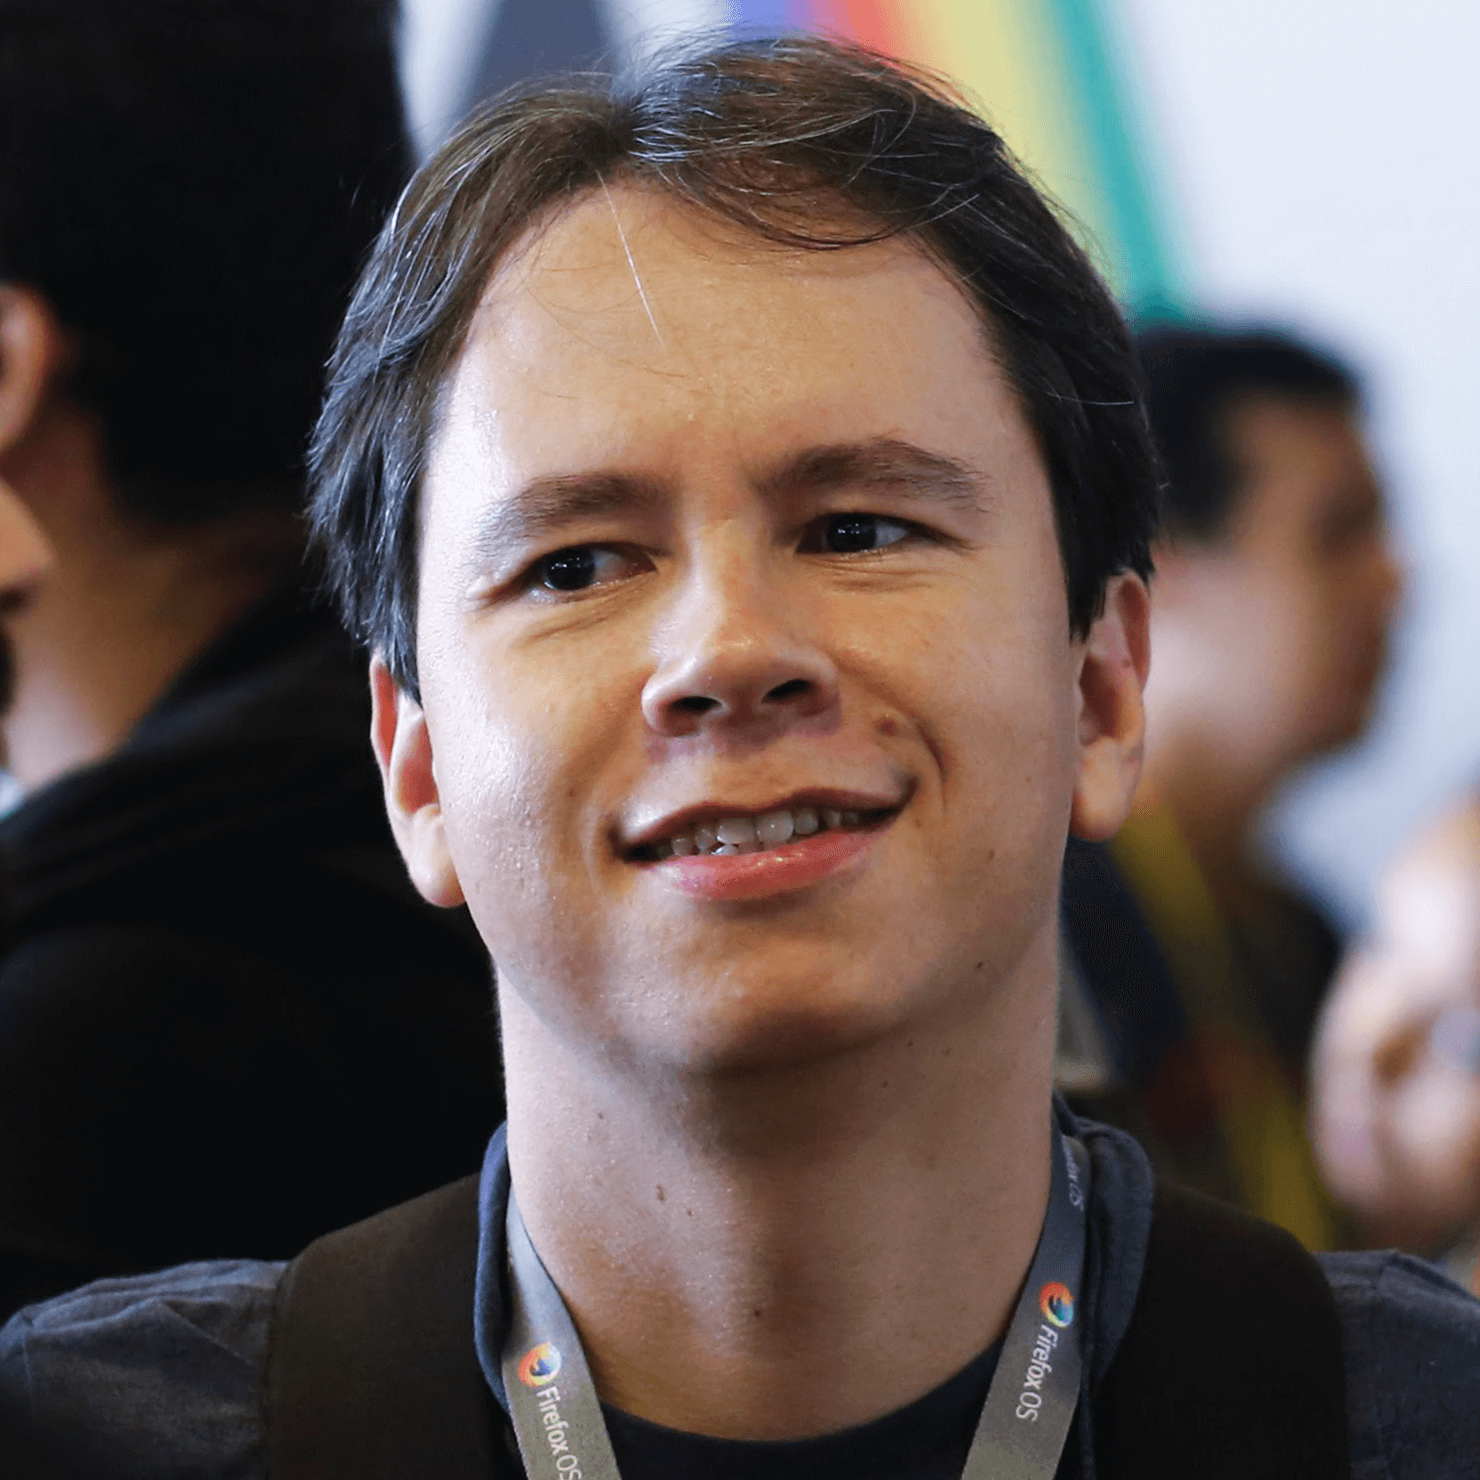
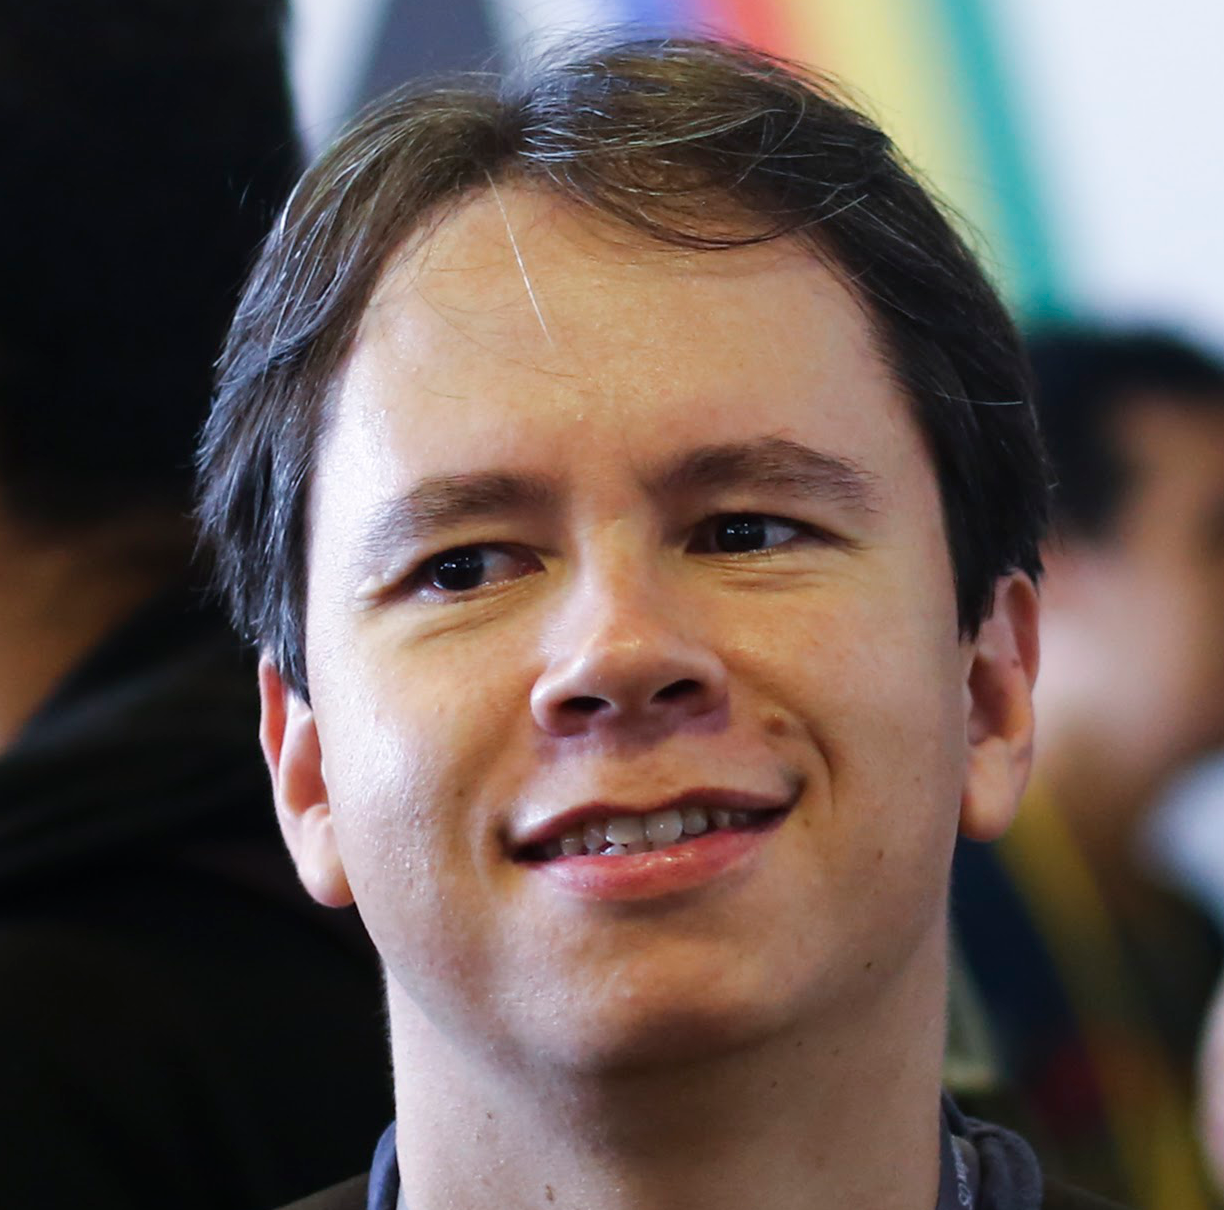
Added Mentors

diff --git a/src/pages/Home/Mentors/index.tsx b/src/pages/Home/Mentors/index.tsx
@@ -10,12 +10,12 @@ const Mentors = (): JSX.Element => (
   <div className={styles.mentors}>
     <h3 className={styles.title}>Mentors</h3>
 
-    {mentors.map(({ name, projects, headshot, bio, github, headshotStyles = {} }) => (
+    {mentors.map(({ name, projects, headshot, bio, github = {} }) => (
       <div className={styles.mentor}>
         <a
           className={styles.headshot}
           href={`https://github.com/${github}`}
-          style={{ backgroundImage: `url("/mentor_photos/${headshot}")`, ...headshotStyles }}
+          style={{ backgroundImage: `url("/mentor_photos/${headshot}")` }}
           target="_blank"
           rel="noopener noreferrer"
         >

diff --git a/src/pages/Home/index.tsx b/src/pages/Home/index.tsx
@@ -4,6 +4,7 @@ import GRADIENT_WAVE from 'assets/home/gradient/gradient_wave.svg';
 import Hero from './Hero';
 import EventInfo from './EventInfo';
 import FAQ from './FAQ';
+import Mentors from './Mentors';
 import Timeline from './Timeline';
 import styles from './styles.module.scss';
 
@@ -12,10 +13,9 @@ const Home: React.FC = () => (
     <Hero />
     <EventInfo />
     <FAQ />
-    {/* <MentorsInfo /> */}
 
     <div className={styles.gradient}>
-      {/* <Mentors /> */}
+      <Mentors />
       <Timeline />
       <img className={styles.wave} src={GRADIENT_WAVE} alt="" />
     </div>
